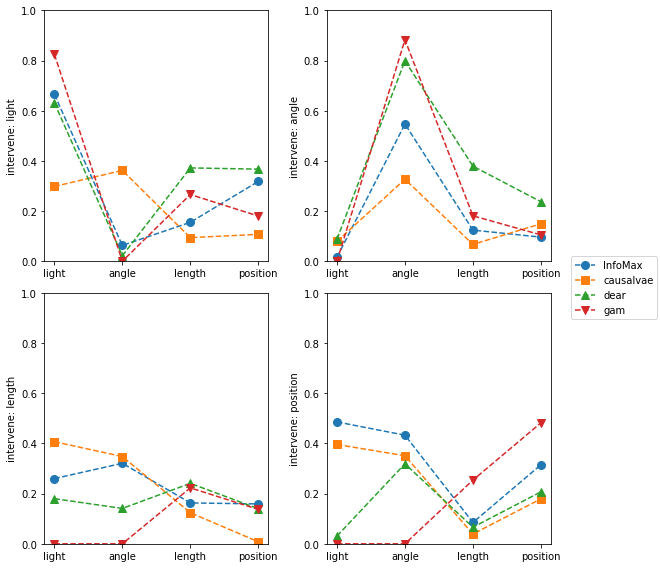
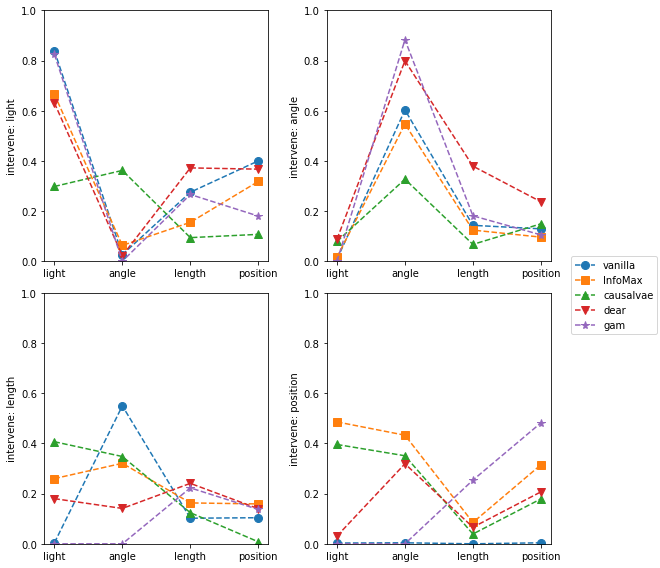
modify ACE metric : plot and txt summary file

diff --git a/metric.py b/metric.py
@@ -309,11 +309,11 @@ def main():
             ACE_dict_upper[s] = ACE_dict_upper.get(s) + [(c, ACE_upper.item())]
     #%%
     ACE_mat_lower = np.zeros((config["node"], config["node"]))
-    for i, c in enumerate(dataset.name):
-        ACE_mat_lower[i, :] = [x[1] for x in ACE_dict_lower[c]]
+    for i, s in enumerate(dataset.name):
+        ACE_mat_lower[i, :] = [x[1] for x in ACE_dict_lower[s]]
     ACE_mat_upper = np.zeros((config["node"], config["node"]))
-    for i, c in enumerate(dataset.name):
-        ACE_mat_upper[i, :] = [x[1] for x in ACE_dict_upper[c]]
+    for i, s in enumerate(dataset.name):
+        ACE_mat_upper[i, :] = [x[1] for x in ACE_dict_upper[s]]
     
     fig = viz_heatmap(np.flipud(ACE_mat_lower), size=(7, 7))
     wandb.log({'ACE(lower)': wandb.Image(fig)})
@@ -329,12 +329,64 @@ def main():
 if __name__ == '__main__':
     main()
 #%%
-# model_names = ['vanilla', 'InfoMax', 'causalvae', 'dear', 'gam']
-model_names = ['InfoMax', 'causalvae', 'dear', 'gam']
+model_names = ['vanilla', 'InfoMax', 'causalvae', 'dear', 'gam']
+# model_names = ['InfoMax', 'causalvae', 'dear', 'gam']
 lowers = {n : pd.read_csv('./assets/ACE_lower_{}.csv'.format(n), index_col=0) for n in model_names}
 uppers = {n : pd.read_csv('./assets/ACE_upper_{}.csv'.format(n), index_col=0) for n in model_names}
 #%%
-markers = ['o', 's', '^', 'v']
+"""Interventional Robustness"""
+s = 'length'
+c = 'light'
+with open('./assets/ACE_IR.txt', 'w') as f:
+    for s in ['length', 'position']:
+        
+        c = s
+        f.write('CDM({}, {})'.format(c, s) + '\n')
+        for n in model_names:
+            line = ''
+            line += n + ', '
+            line += '({:.3f}, {:.3f})'.format(lowers[n].loc[s].loc[c], uppers[n].loc[s].loc[c])
+            f.write(line)
+            f.write('\n')
+        f.write('\n')
+        
+        for c in ['light', 'angle']:
+            f.write('CDM({}, {})'.format(c, s) + '\n')
+            for n in model_names:
+                line = ''
+                line += n + ', '
+                line += '({:.3f}, {:.3f})'.format(lowers[n].loc[s].loc[c], uppers[n].loc[s].loc[c])
+                f.write(line)
+                f.write('\n')
+            f.write('\n')
+#%%
+"""Counterfactual Generativeness"""
+s = 'length'
+c = 'light'
+with open('./assets/ACE_CG.txt', 'w') as f:
+    for s in ['light', 'angle']:
+        
+        c = s
+        f.write('CDM({}, {})'.format(c, s) + '\n')
+        for n in model_names:
+            line = ''
+            line += n + ', '
+            line += '({:.3f}, {:.3f})'.format(lowers[n].loc[s].loc[c], uppers[n].loc[s].loc[c])
+            f.write(line)
+            f.write('\n')
+        f.write('\n')
+        
+        for c in ['length', 'position']:
+            f.write('CDM({}, {})'.format(c, s) + '\n')
+            for n in model_names:
+                line = ''
+                line += n + ', '
+                line += '({:.3f}, {:.3f})'.format(lowers[n].loc[s].loc[c], uppers[n].loc[s].loc[c])
+                f.write(line)
+                f.write('\n')
+            f.write('\n')
+#%%
+markers = ['o', 's', '^', 'v', '*']
 fig, ax = plt.subplots(2, 2, figsize=(8, 8))
 for i, s in enumerate(['light', 'angle', 'length', 'position']):
     for k, n in enumerate(model_names):
@@ -350,7 +402,7 @@ plt.savefig('./assets/ACE_lowers.png', bbox_inches='tight')
 # plt.show()
 plt.close()
 #%%
-markers = ['o', 's', '^', 'v']
+markers = ['o', 's', '^', 'v', '*']
 fig, ax = plt.subplots(2, 2, figsize=(8, 8))
 for i, s in enumerate(['light', 'angle', 'length', 'position']):
     for k, n in enumerate(model_names):
